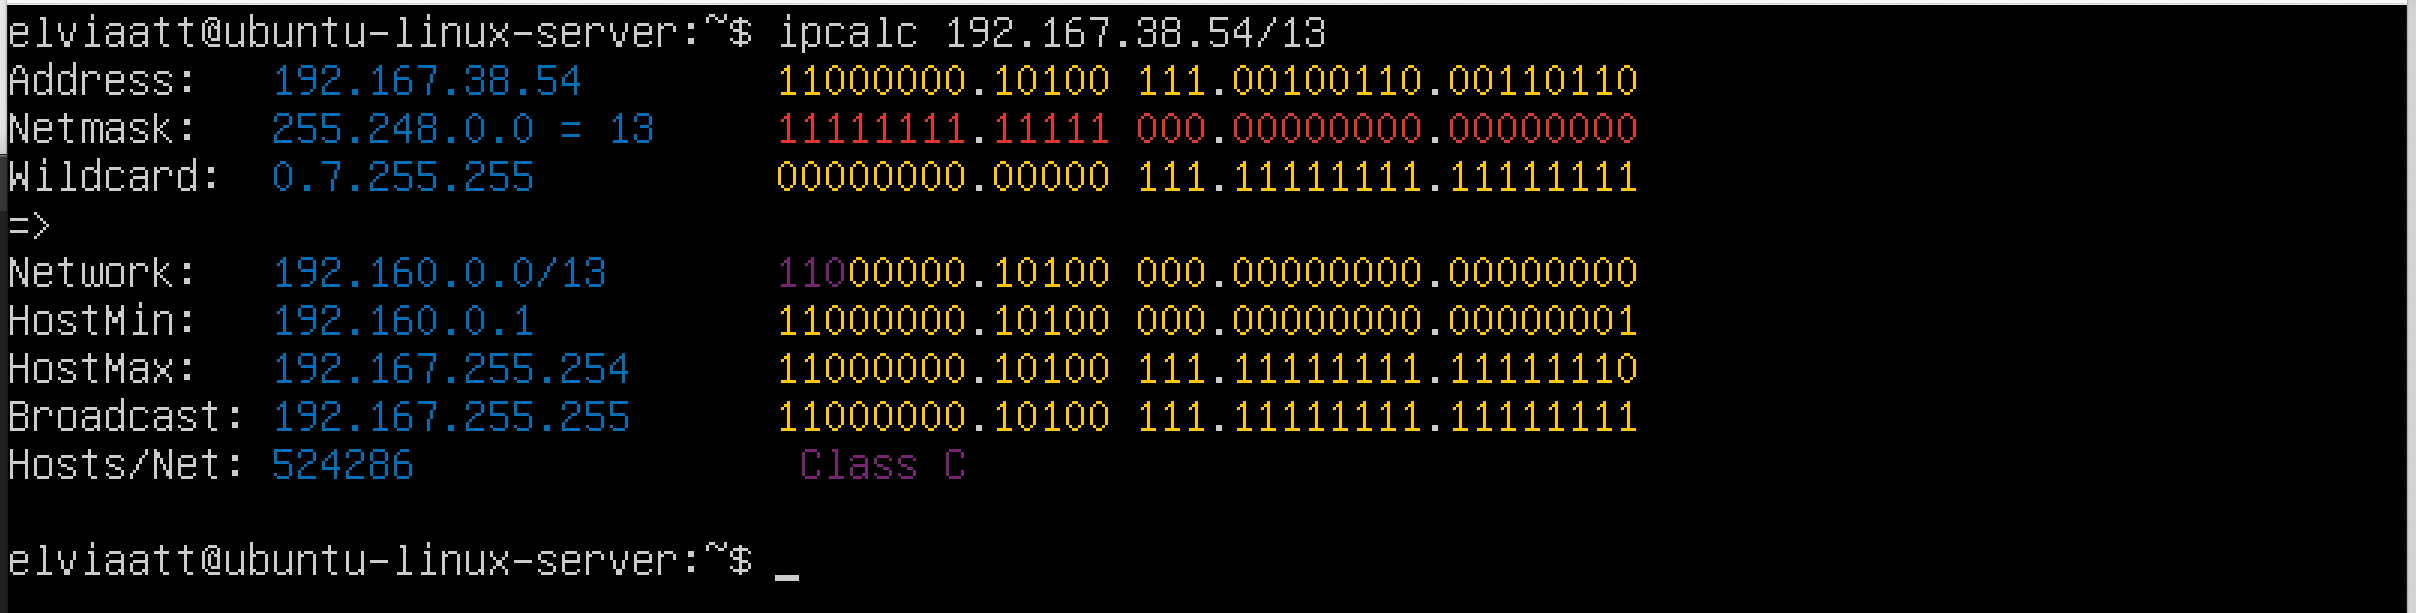
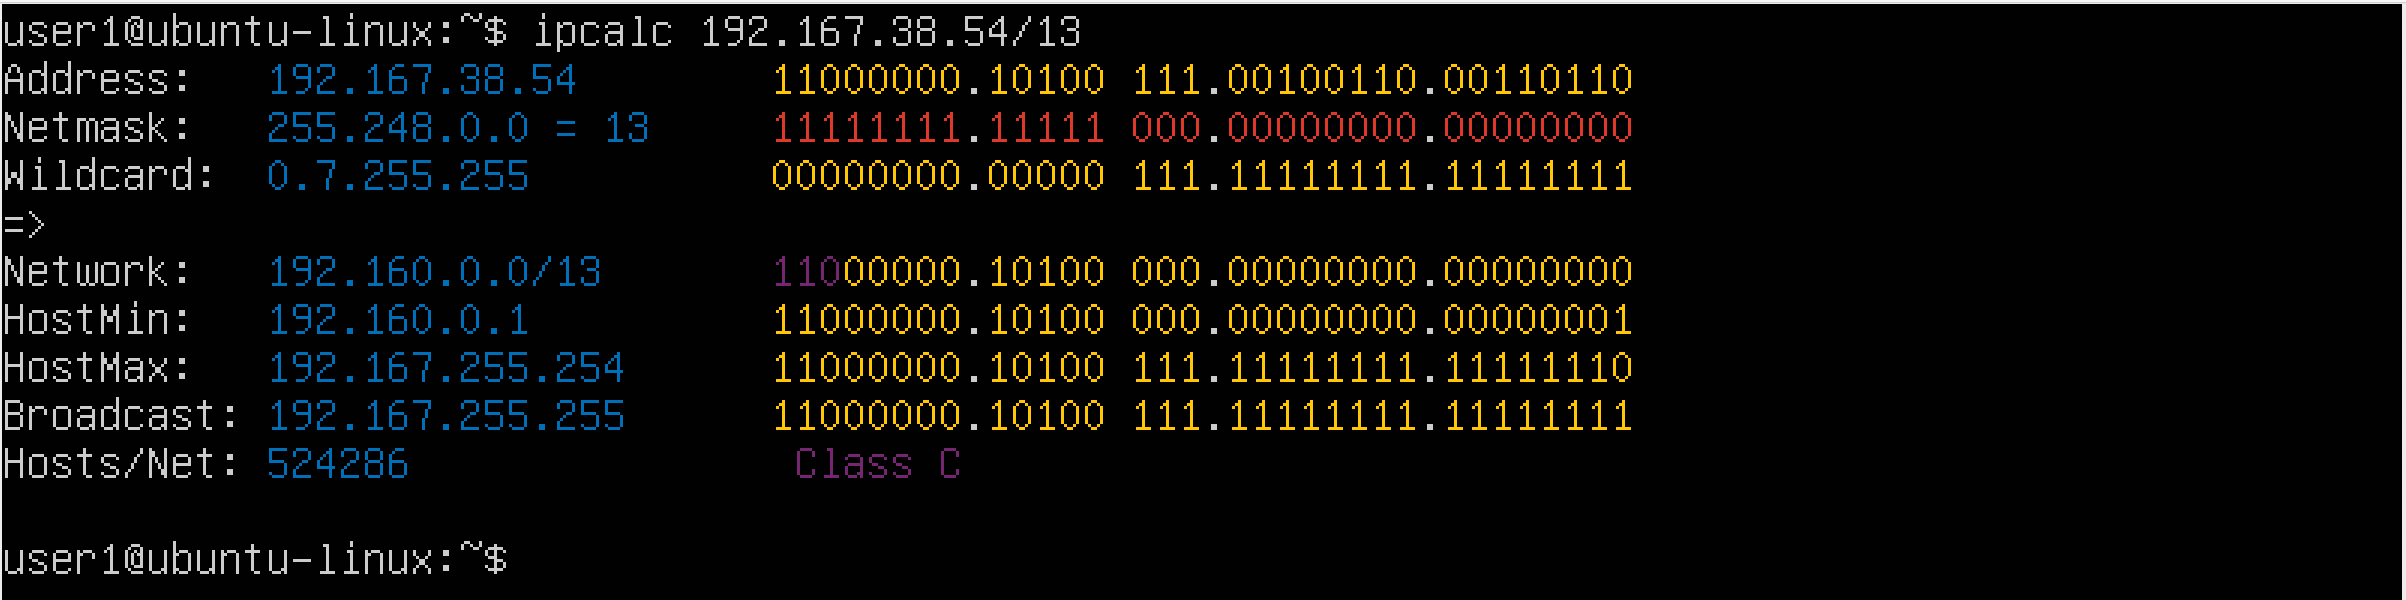
develop/part1 - name is switched to user1, part2 - in progress

diff --git a/src/report.md b/src/report.md
@@ -2,20 +2,20 @@
 
 - there is no ipcalc tool.
 
-![text](../screenshots/part1/1.png)
+![text](../screenshots/part1/_1.png)
 
 - installing ipcalc. $ sudo apt install ipcalc
 
-![text](../screenshots/part1/2.png)
+![text](../screenshots/part1/_2.png)
 
 # 1.1 Networks and Masks
 
-- 1. Network address of 192.167.38.54/13
+1. Network address of 192.167.38.54/13
 
 ![text](../screenshots/part1/1_1_1.png)
 
 
-- 2. Conversion of the mask 255.255.255.0 to prefix and binary, /15 to normal and binary, 11111111.11111111.11111111.11110000 to normal and prefix
+2. Conversion of the mask 255.255.255.0 to prefix and binary, /15 to normal and binary, 11111111.11111111.11111111.11110000 to normal and prefix
 
 - сonversion of the mask 255.255.255.0 to prefix and binary
 ![text](../screenshots/part1/1_1_2-1.png)
@@ -27,45 +27,62 @@
 ![text](../screenshots/part1/1_1_2-3.png)
 
 
-- 3. Minimum and maximum host in 12.167.38.4 network with masks: /8, 11111111.11111111.00000000.00000000, 255.255.254.0 and /4
+3. Minimum and maximum host in 12.167.38.4 network with masks: /8, 11111111.11111111.00000000.00000000, 255.255.254.0 and /4
+
+- /8
 ![text](../screenshots/part1/1_1_3-1.png)
 
+- 11111111.11111111.00000000.00000000
+![text](../screenshots/part1/1_1_3-2.png)
+
+- 255.255.254.0
+![text](../screenshots/part1/1_1_3-3.png)
+
+- /4
+![text](../screenshots/part1/1_1_3-4.png)
 
 # 1.2 Localhst
 - can be accessed with
-    127.0.0.2
-    127.1.0.1
+    + 127.0.0.2
+    + 127.1.0.1
 - can't with
-    194.34.23.100
-    128.0.0.1
+    + 194.34.23.100
+    + 128.0.0.1
 
 
 # 1.3. Network ranges and segments
 
-- 1. Which of the listed IPs can be used as public and which only as private: 10.0.0.45, 134.43.0.2, 192.168.4.2, 172.20.250.4, 172.0.2.1, 192.172.0.1, 172.68.0.2, 172.16.255.255, 10.10.10.10, 192.169.168.1
+1. Which of the listed IPs can be used as public and which only as private: 10.0.0.45, 134.43.0.2, 192.168.4.2, 172.20.250.4, 172.0.2.1, 192.172.0.1, 172.68.0.2, 172.16.255.255, 10.10.10.10, 192.169.168.1
 
 - private
-    10.0.0.45
-    192.168.4.2
-    172.20.250.4
-    172.16.255.255
-    10.10.10.10
+    + 10.0.0.45
+    + 192.168.4.2
+    + 172.20.250.4
+    + 172.16.255.255
+    + 10.10.10.10
 
 - public
-    134.43.0.2
-    172.0.2.1
-    192.172.0.1
-    172.68.0.2
-    192.169.168.1
+    + 134.43.0.2
+    + 172.0.2.1
+    + 192.172.0.1
+    + 172.68.0.2
+    + 192.169.168.1
 
 
-- 2. Which of the listed gateway IP addresses are possible for 10.10.0.0/18 network: 10.0.0.1, 10.10.0.2, 10.10.10.10, 10.10.100.1, 10.10.1.255
+2. Which of the listed gateway IP addresses are possible for 10.10.0.0/18 network: 10.0.0.1, 10.10.0.2, 10.10.10.10, 10.10.100.1, 10.10.1.255
 
 - possible
-    10.10.0.2
-    10.10.10.10
-    10.10.1.255
+    + 10.10.0.2
+    + 10.10.10.10
+    + 10.10.1.255
 
 - impossible
-    10.0.0.1
-    10.10.100.1
+    + 10.0.0.1
+    + 10.10.100.1
+
+
+## Part 2. Static routing between two machines
+
+- Start two virtual machines (hereafter -- ws1 and ws2)
+![text](../screenshots/part2/_1.png)
+
